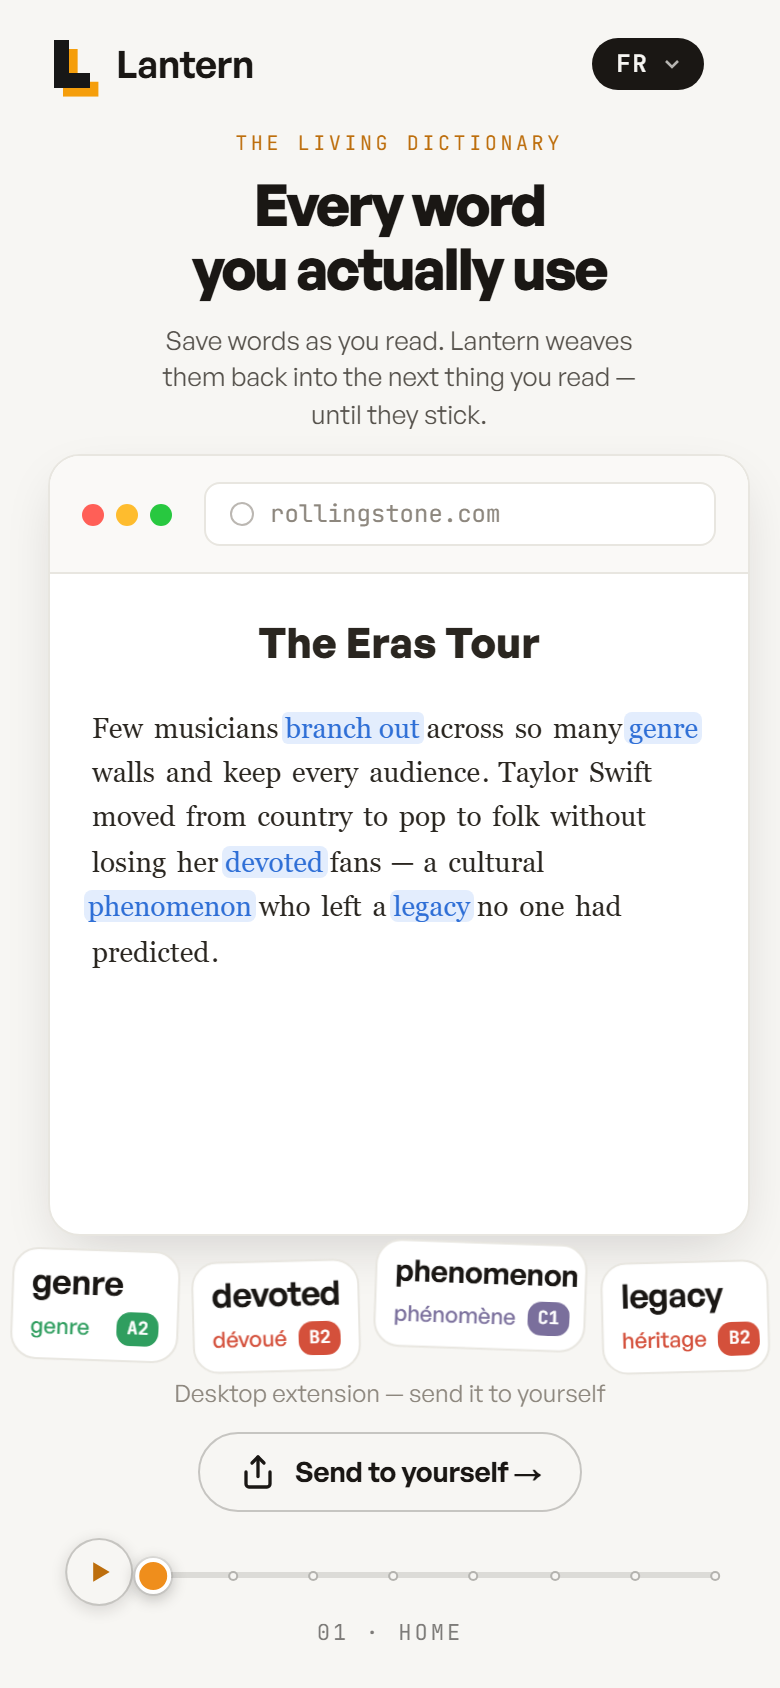
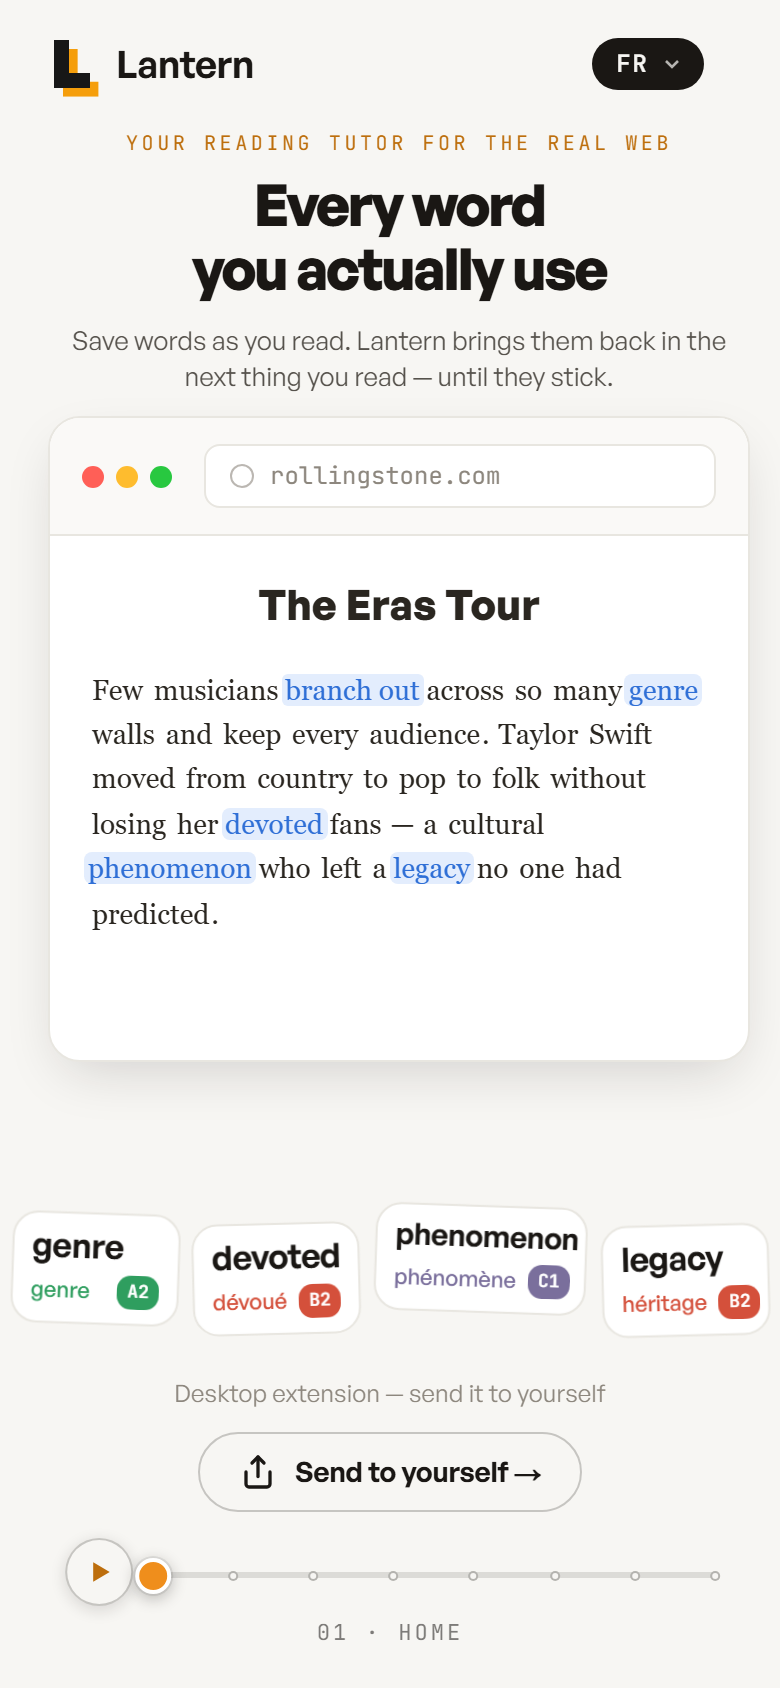
sitemap: add lastmod; dev screenshot artifacts

diff --git a/screenshots/repro-screen1-auto.js b/screenshots/repro-screen1-auto.js
@@ -1,0 +1,38 @@
+/* Capture EARLY frames of mobile HOME screen-1 to catch any "big -> small"
+   jump in the hero word-cards on first load. */
+const path = require('path');
+const fs = require('fs');
+const { chromium } = require(path.join(process.env.APPDATA, 'npm', 'node_modules', 'playwright'));
+const OUT = path.join(__dirname, 'repro-screen1');
+fs.mkdirSync(OUT, { recursive: true });
+
+(async () => {
+  const browser = await chromium.launch();
+  const ctx = await browser.newContext({ viewport: { width: 390, height: 844 }, deviceScaleFactor: 2, hasTouch: true, isMobile: true });
+  const page = await ctx.newPage();
+  page.on('pageerror', e => console.log('PAGEERROR:', e.message));
+
+  const log = [];
+  await page.goto('file:///C:/Landing%20Lantern/index.html', { waitUntil: 'commit' });
+
+  for (const t of [150, 300, 500, 800, 1200, 2000, 3200]) {
+    await page.waitForTimeout(t === 150 ? 150 : 0);
+    if (t !== 150) await page.waitForTimeout(t - log.lastT || 0);
+  }
+
+  // simpler: sample at fixed intervals
+  const stamps = [120, 250, 400, 600, 900, 1400, 2200, 3400];
+  let prev = 0;
+  for (const s of stamps) {
+    await page.waitForTimeout(s - prev); prev = s;
+    await page.screenshot({ path: path.join(OUT, `t${String(s).padStart(4,'0')}.png`) });
+    const cards = await page.evaluate(() => [...document.querySelectorAll('.hw-card')].map(c => {
+      const wc = c.querySelector('.wordcard'); const w = c.querySelector('.w');
+      const r = c.getBoundingClientRect();
+      return { word: w && w.textContent, cls: wc && wc.className, cardW: wc && wc.style.width,
+               wFont: w && getComputedStyle(w).fontSize, boxW: Math.round(r.width), boxH: Math.round(r.height) };
+    }));
+    console.log(`t=${s}ms n=${cards.length}`, JSON.stringify(cards));
+  }
+  await browser.close();
+})().catch(e => { console.error(e); process.exit(1); });